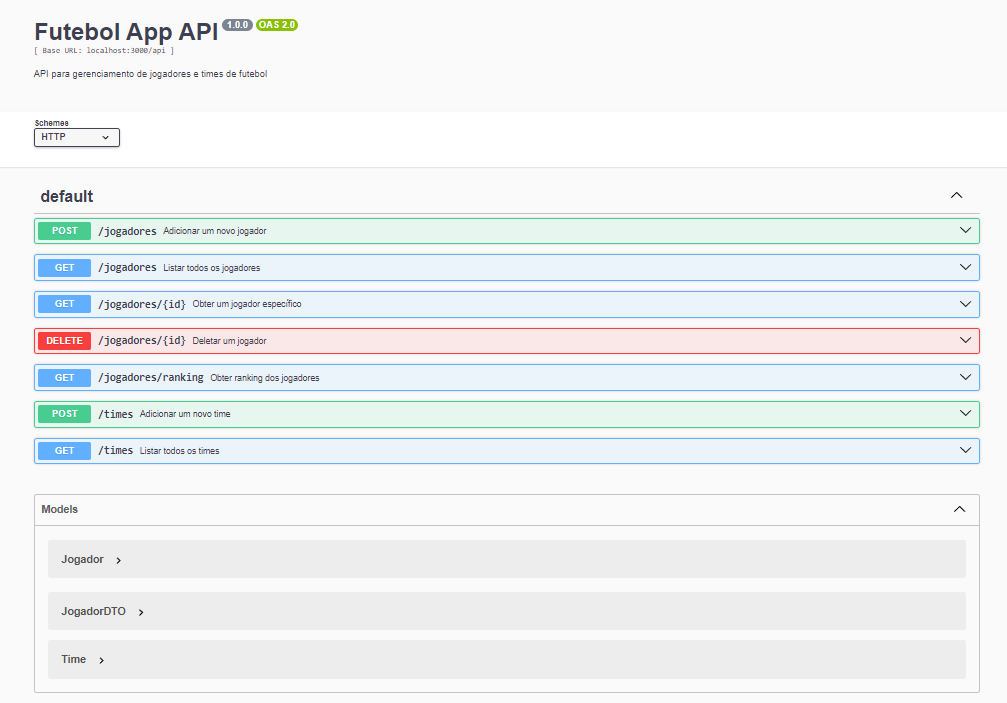
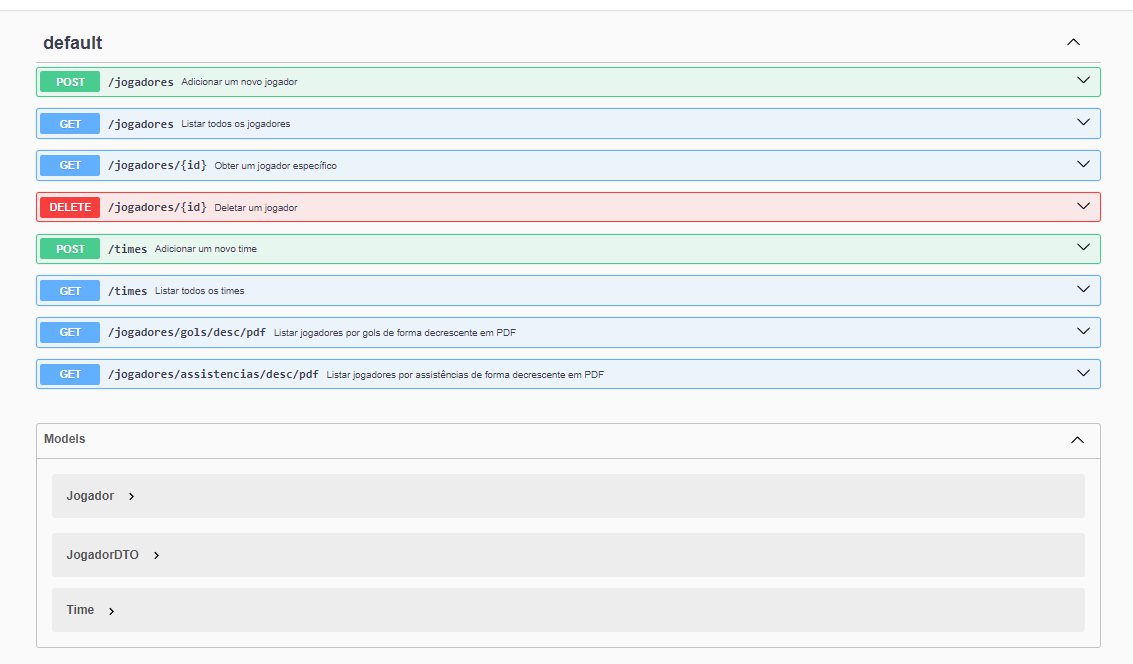
Retirando o GET Ranking

diff --git a/dist/controllers/JogadorController.js b/dist/controllers/JogadorController.js
@@ -17,6 +17,33 @@ const JogadorService_1 = require("../services/JogadorService");
 const pdfkit_1 = __importDefault(require("pdfkit"));
 const jogadorService = new JogadorService_1.JogadorService();
 class JogadorController {
+    constructor() {
+        // Métodos para gerar PDFs
+        this.gerarPdfJogadores = (jogadores, titulo, res) => __awaiter(this, void 0, void 0, function* () {
+            const doc = new pdfkit_1.default();
+            res.setHeader('Content-Type', 'application/pdf');
+            res.setHeader('Content-Disposition', `attachment; filename=${titulo}.pdf`);
+            doc.pipe(res);
+            doc.fontSize(20).text(titulo, { align: 'center' });
+            doc.moveDown();
+            jogadores.forEach(jogador => {
+                doc.fontSize(12).text(`Apelido: ${jogador.apelido}`);
+                doc.text(`Gols: ${jogador.gols}`);
+                doc.text(`Assistências: ${jogador.assistencias}`);
+                doc.text(`Posição: ${jogador.posicao}`);
+                doc.moveDown();
+            });
+            doc.end();
+        });
+        this.listarPorGolsDecrescentePDF = (req, res) => __awaiter(this, void 0, void 0, function* () {
+            const jogadores = yield jogadorService.listarPorGolsDecrescente();
+            yield this.gerarPdfJogadores(jogadores, 'Jogadores - Gols Decrescente', res);
+        });
+        this.listarPorAssistenciasDecrescentePDF = (req, res) => __awaiter(this, void 0, void 0, function* () {
+            const jogadores = yield jogadorService.listarPorAssistenciasDecrescente();
+            yield this.gerarPdfJogadores(jogadores, 'Jogadores - Assistências Decrescente', res);
+        });
+    }
     create(req, res) {
         return __awaiter(this, void 0, void 0, function* () {
             const jogador = yield jogadorService.create(req.body);
@@ -39,55 +66,6 @@ class JogadorController {
         return __awaiter(this, void 0, void 0, function* () {
             yield jogadorService.delete(Number(req.params.id));
             return res.status(204).send();
-        });
-    }
-    getRanking(req, res) {
-        return __awaiter(this, void 0, void 0, function* () {
-            const ranking = yield jogadorService.getRanking();
-            return res.json(ranking);
-        });
-    }
-    // Métodos para gerar PDFs
-    gerarPdfJogadores(jogadores, titulo, res) {
-        return __awaiter(this, void 0, void 0, function* () {
-            const doc = new pdfkit_1.default();
-            res.setHeader('Content-Type', 'application/pdf');
-            res.setHeader('Content-Disposition', `attachment; filename=${titulo}.pdf`);
-            doc.pipe(res);
-            doc.fontSize(20).text(titulo, { align: 'center' });
-            doc.moveDown();
-            jogadores.forEach(jogador => {
-                doc.fontSize(12).text(`Apelido: ${jogador.apelido}`);
-                doc.text(`Gols: ${jogador.gols}`);
-                doc.text(`Assistências: ${jogador.assistencias}`);
-                doc.text(`Posição: ${jogador.posicao}`);
-                doc.moveDown();
-            });
-            doc.end();
-        });
-    }
-    listarPorGolsDecrescentePDF(req, res) {
-        return __awaiter(this, void 0, void 0, function* () {
-            const jogadores = yield jogadorService.listarPorGolsDecrescente();
-            yield this.gerarPdfJogadores(jogadores, 'Jogadores - Gols Decrescente', res);
-        });
-    }
-    listarPorGolsCrescentePDF(req, res) {
-        return __awaiter(this, void 0, void 0, function* () {
-            const jogadores = yield jogadorService.listarPorGolsCrescente();
-            yield this.gerarPdfJogadores(jogadores, 'Jogadores - Gols Crescente', res);
-        });
-    }
-    listarPorAssistenciasDecrescentePDF(req, res) {
-        return __awaiter(this, void 0, void 0, function* () {
-            const jogadores = yield jogadorService.listarPorAssistenciasDecrescente();
-            yield this.gerarPdfJogadores(jogadores, 'Jogadores - Assistências Decrescente', res);
-        });
-    }
-    listarPorAssistenciasCrescentePDF(req, res) {
-        return __awaiter(this, void 0, void 0, function* () {
-            const jogadores = yield jogadorService.listarPorAssistenciasCrescente();
-            yield this.gerarPdfJogadores(jogadores, 'Jogadores - Assistências Crescente', res);
         });
     }
 }

diff --git a/src/services/JogadorService.ts b/src/services/JogadorService.ts
@@ -5,12 +5,12 @@ import { JogadorDTO } from '../dto/JogadorDTO';
 export class JogadorService {
     private jogadorRepository = AppDataSource.getRepository(Jogador);
 
-    
+
     async create(jogador: Jogador): Promise<Jogador> {
         return await this.jogadorRepository.save(jogador);
     }
 
-    
+
     async findAll(): Promise<JogadorDTO[]> {
         const jogadores = await this.jogadorRepository.find();
         return jogadores.map(({ id, apelido, gols, assistencias, posicao }) => ({
@@ -22,34 +22,20 @@ export class JogadorService {
         }));
     }
 
-   
+
     async findOne(id: number): Promise<Jogador | null> {
         return await this.jogadorRepository.findOneBy({ id });
     }
 
-    
+
     async delete(id: number): Promise<void> {
         await this.jogadorRepository.delete(id);
     }
 
-    
-    async getRanking(): Promise<JogadorDTO[]> {
-        const jogadores = await this.jogadorRepository.find({
-            order: {
-                gols: 'DESC',
-                assistencias: 'DESC',
-            },
-        });
-        return jogadores.map(({ id, apelido, gols, assistencias, posicao }) => ({
-            id,
-            apelido,
-            gols,
-            assistencias,
-            posicao,
-        }));
-    }
 
-    
+
+
+
     async listarPorGolsDecrescente(): Promise<JogadorDTO[]> {
         const jogadores = await this.jogadorRepository.find({
             order: {
@@ -65,7 +51,7 @@ export class JogadorService {
         }));
     }
 
-    
+
     async listarPorAssistenciasDecrescente(): Promise<JogadorDTO[]> {
         const jogadores = await this.jogadorRepository.find({
             order: {
@@ -81,7 +67,7 @@ export class JogadorService {
         }));
     }
 
-   
+
     async listarPorGolsCrescente(): Promise<JogadorDTO[]> {
         const jogadores = await this.jogadorRepository.find({
             order: {
@@ -97,7 +83,7 @@ export class JogadorService {
         }));
     }
 
-   
+
     async listarPorAssistenciasCrescente(): Promise<JogadorDTO[]> {
         const jogadores = await this.jogadorRepository.find({
             order: {

diff --git a/dist/index.js b/dist/index.js
@@ -5,12 +5,19 @@ var __importDefault = (this && this.__importDefault) || function (mod) {
 Object.defineProperty(exports, "__esModule", { value: true });
 require("reflect-metadata");
 const express_1 = __importDefault(require("express"));
+const cors_1 = __importDefault(require("cors"));
 const swagger_ui_express_1 = __importDefault(require("swagger-ui-express"));
 const DataSource_1 = require("./database/DataSource");
 const JogadorRoutes_1 = __importDefault(require("./routes/JogadorRoutes"));
 const TimeRoutes_1 = __importDefault(require("./routes/TimeRoutes"));
 const swagger_json_1 = __importDefault(require("../swagger/swagger.json"));
 const app = (0, express_1.default)();
+// Configuração do CORS
+app.use((0, cors_1.default)({
+    origin: '*', // Permite todas as origens. Ajuste conforme necessário.
+    methods: ['GET', 'POST', 'PUT', 'DELETE'],
+    allowedHeaders: ['Content-Type', 'Authorization']
+}));
 app.use(express_1.default.json());
 // Rotas
 app.use('/api', JogadorRoutes_1.default);

diff --git a/dist/services/JogadorService.js b/dist/services/JogadorService.js
@@ -43,23 +43,6 @@ class JogadorService {
             yield this.jogadorRepository.delete(id);
         });
     }
-    getRanking() {
-        return __awaiter(this, void 0, void 0, function* () {
-            const jogadores = yield this.jogadorRepository.find({
-                order: {
-                    gols: 'DESC',
-                    assistencias: 'DESC',
-                },
-            });
-            return jogadores.map(({ id, apelido, gols, assistencias, posicao }) => ({
-                id,
-                apelido,
-                gols,
-                assistencias,
-                posicao,
-            }));
-        });
-    }
     listarPorGolsDecrescente() {
         return __awaiter(this, void 0, void 0, function* () {
             const jogadores = yield this.jogadorRepository.find({

diff --git a/dist/routes/JogadorRoutes.js b/dist/routes/JogadorRoutes.js
@@ -8,10 +8,7 @@ router.post('/jogadores', jogadorController.create);
 router.get('/jogadores', jogadorController.findAll);
 router.get('/jogadores/:id', jogadorController.findOne);
 router.delete('/jogadores/:id', jogadorController.delete);
-router.get('/jogadores/ranking', jogadorController.getRanking);
 // Novas rotas para listagem em PDF
 router.get('/jogadores/gols/desc/pdf', jogadorController.listarPorGolsDecrescentePDF);
-router.get('/jogadores/gols/asc/pdf', jogadorController.listarPorGolsCrescentePDF);
 router.get('/jogadores/assistencias/desc/pdf', jogadorController.listarPorAssistenciasDecrescentePDF);
-router.get('/jogadores/assistencias/asc/pdf', jogadorController.listarPorAssistenciasCrescentePDF);
 exports.default = router;

diff --git a/src/controllers/JogadorController.ts b/src/controllers/JogadorController.ts
@@ -25,11 +25,6 @@ export class JogadorController {
         return res.status(204).send();
     }
 
-    async getRanking(req: Request, res: Response): Promise<Response> {
-        const ranking = await jogadorService.getRanking();
-        return res.json(ranking);
-    }
-
     // Métodos para gerar PDFs
     private gerarPdfJogadores = async (jogadores: any[], titulo: string, res: Response) => {
         const doc = new PDFDocument();

diff --git a/src/routes/JogadorRoutes.ts b/src/routes/JogadorRoutes.ts
@@ -8,7 +8,7 @@ router.post('/jogadores', jogadorController.create);
 router.get('/jogadores', jogadorController.findAll);
 router.get('/jogadores/:id', jogadorController.findOne);
 router.delete('/jogadores/:id', jogadorController.delete);
-router.get('/jogadores/ranking', jogadorController.getRanking);
+
 
 // Novas rotas para listagem em PDF
 router.get('/jogadores/gols/desc/pdf', jogadorController.listarPorGolsDecrescentePDF);
